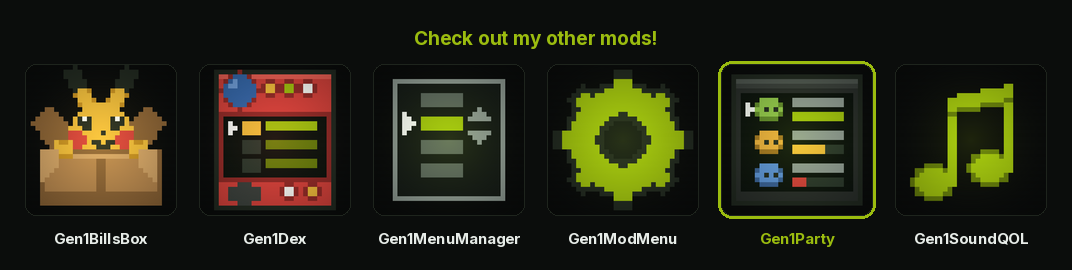
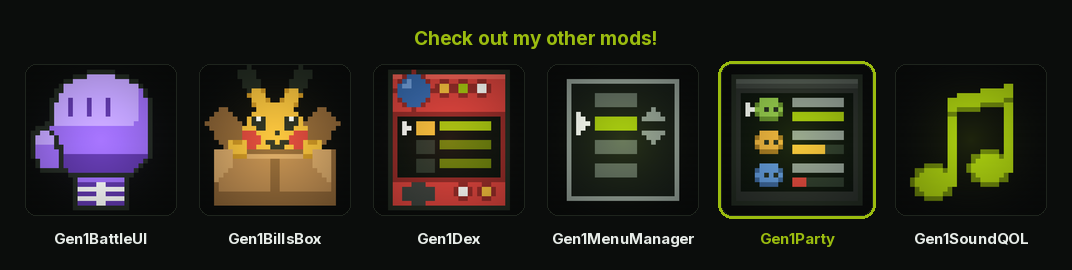
Index: Gen1BattleUI
The battle command and move menus as four buttons in a 2x2 grid instead
of a list, in the game's own text boxes and the game's own screen. Both
battle layouts.

Its card icon is a purple boxing glove, and it is the one icon here
written out as a pixel map rather than composed from discs and ellipses
like the rest: the shape is three round masses that have to meet along
shared outlines, and built from primitives it kept coming out with a
stray pixel where two curves grazed and a gap where the thumb met the
cuff -- every fix for one moving the other. A map has no such argument
with itself.

site/data/index.json is deliberately not rebuilt here: this checkout has
no token, so a local run resolves no releases and would replace every
entry's release and download block with a 403. The hourly job rebuilds
it with one, and a push touching mods/** triggers that job anyway.

Claude-Session: https://claude.ai/code/session_01TQTJ8XG51X7f5w4oWQuUJQ

diff --git a/tools/make_icons.py b/tools/make_icons.py
@@ -44,6 +44,9 @@ STEEL   = (0x5a, 0x66, 0x5c)
 AMBER   = (0xe8, 0xb7, 0x3a)
 PINK    = (0xf2, 0x8c, 0xbc)
 PINK_D  = (0xa8, 0x46, 0x78)
+PURPLE  = (0x9a, 0x6c, 0xf0)   # Gen1BattleUI's glove
+PURPLE_L = (0xc4, 0xa6, 0xff)
+PURPLE_D = (0x5c, 0x36, 0xa4)
 
 
 class Art:
@@ -972,6 +975,60 @@ def bundle_icon(text, case=CASE_GOLD, gap=2):
     return a, lit
 
 
+# The glove, one character per pixel.  Written out rather than built from
+# discs and ellipses like the rest of the icons here, because this shape is
+# three round masses that have to meet along shared outlines: composed from
+# primitives it kept coming out with a stray pixel where two curves grazed
+# each other and a gap where the thumb met the cuff, and every fix for one
+# moved the other.  A map has no such argument with itself.
+#
+#   o  the outline      L  lit              M  the body
+#   D  shade            W  the laces        .  through to the ground
+GLOVE = [
+    "................................",
+    ".............oooooo.............",
+    "..........oooLLLLLLooo..........",
+    "........ooLLLLLLLLLLLLoo........",
+    ".......oLLLLLLLLLLLLLLLLo.......",
+    "......ooLLLLLLLLLLLLLLLLMo......",
+    "......oLLLLLLLLLLLLLLLLLMo......",
+    ".....ooLLDLLLDLLLDLLLLLLMMo.....",
+    ".....oLLLDLLLDLLLDLLLLLLMMo.....",
+    ".....oLLLDLLLDLLLDLLLLLLMMo.....",
+    ".....oLLLDLLLDLLLDLLLLLLMMo.....",
+    ".....oLLLLLLLLLLLLLLLLLLMMo.....",
+    "....ooLLLLLLLLLLLLLLLLLMMMo.....",
+    "..oooMMMMMMMMMMMMMMMMMMMMMo.....",
+    ".ooLLoMMMMMMMMMMMMMMMMMMMMo.....",
+    ".oLLLLoMMMMMMMMMMMMMMMMMMMo.....",
+    ".oLLLLoMMMMMMMMMMMMMMMMMMMo.....",
+    ".oMMMMooMMMMMMMMMMMMMMMMMMo.....",
+    ".oMMMMMoMMMMMMMMMMMMMMMMMMo.....",
+    ".oMMMMMoDDDDDDDDDDDDDDDDDDo.....",
+    "..oMMMMoDDDDDDDDDDDDDDDDDo......",
+    "..oMMMMoDDDDDDDDDDDDDDDDo.......",
+    "...ooooooDDDDDDDDDDDDDDo........",
+    ".........oooooooooooooo.........",
+    "..........oMMMMMMMMMMo..........",
+    "..........oDDDDWWDDDDo..........",
+    "..........oWWWWWWWWWWo..........",
+    "..........oDDDDWWDDDDo..........",
+    "..........oWWWWWWWWWWo..........",
+    "..........oDDDDWWDDDDo..........",
+    "..........oooooooooooo..........",
+    "................................",
+]
+
+
+def battle_ui():
+    """A purple boxing glove: the battle menu, hitting differently."""
+    a = Art()
+    stamp(a, 0, 0, GLOVE, {
+        "o": INK, "L": PURPLE_L, "M": PURPLE, "D": PURPLE_D, "W": WHITE,
+    })
+    return a, PURPLE
+
+
 def wild_qol():
     """A gold Game Boy reading QOL."""
     return bundle_icon("QOL", CASE_GOLD)
@@ -984,6 +1041,7 @@ def wild_ui():
 
 ICONS = {
     "gen1autosave": autosave,
+    "Gen1BattleUI": battle_ui,
     "gen1_auto_continue": auto_continue,
     "gen1arena": arena,
     "Gen1MenuManager": menu_manager,

diff --git a/mods/Wild@Gen1BattleUI/description.md b/mods/Wild@Gen1BattleUI/description.md
@@ -1,0 +1,54 @@
+# Gen1BattleUI
+
+The battle menu is a list of four words in one box. This makes it four
+buttons, two by two, and does the same to the move menu.
+
+Nothing new was invented to draw them. A button here is the game's own text
+box — the same call, the same border glyphs, the same white interior — so a
+skin or a font mod that redraws the border redraws these buttons with it.
+
+```
+rows 12-14   FIGHT | PKMN        four 10x3 boxes, tiling the
+rows 15-17   ITEM  | RUN         twenty-by-six strip exactly
+```
+
+Three tile rows is the smallest box that holds a line of text, because the
+first and last go to the border. Two rows of them is six, which is exactly
+what the bottom of a Game Boy screen has.
+
+## The grid was already in the numbers
+
+The engine has always read the command menu as a 2×2 — which is why LEFT and
+RIGHT already crossed between FIGHT and PKMN. It was only ever *drawn* as a
+list. So none of the menu's behaviour is replaced: the index is still the
+engine's, and still moved by the engine's own input handling.
+
+The move menu is the one that actually changes, and the engine already had a
+hook for it — the widescreen layout has navigated its moves as a grid all
+along.
+
+## Dialogue takes the strip back on its own
+
+Only the three phases that are a *menu* are claimed. When the battle talks it
+is still the engine's text box, in the engine's place, with its own scroll and
+its own blinking arrow; the buttons are simply not drawn underneath it, and
+they are back on the frame the menu is.
+
+The same rule keeps PKMN and ITEM working: the strip is claimed only while the
+battle is the top of the state stack, because opening the party or the bag
+leaves the battle on the menu phase the whole time that screen is up.
+
+## What two columns inside 160 pixels costs
+
+A cell is seven glyphs where the vanilla list had fourteen, so long move names
+are cut — `QUICK ATTACK` reads `QUICK.` It is paid back rather than hidden: a
+panel above the grid carries the highlighted move's full name, its type and
+its PP, which the vanilla list never showed at once. **MOVE PANEL** turns it
+off.
+
+## Widescreen too
+
+`OPTION` → `BATTLE LAYOUT` → `WIDE` gets the same grid, built differently:
+five tile rows will not hold two three-row boxes, so it is one box ruled into
+four cells with its own border glyphs — border, text, rule, text, border. Its
+cells are twelve glyphs, so names arrive whole there and nothing is cut.

diff --git a/README.md b/README.md
@@ -33,6 +33,7 @@ not twice, and a mod in one can still find a mod in the other.
 | <img src="mods/Wild@gen1arena/thumbnail.png" width="54" alt=""> | **[Gen1Arena](https://github.com/wild1walker/Gen1Arena)** | 2D backdrops behind battles, picked by map, tileset and how the encounter started. |
 | <img src="mods/Wild@gen1_auto_continue/thumbnail.png" width="54" alt=""> | **[Gen1AutoContinue](https://github.com/wild1walker/Gen1AutoContinue)** | Boot to title, one press, playing. Skips the intro, the CONTINUE / NEW GAME menu and the save-info window. |
 | <img src="mods/Wild@gen1autosave/thumbnail.png" width="54" alt=""> | **[Gen1AutoSave](https://github.com/wild1walker/Gen1AutoSave)** | Autosaves on a play-time timer and after battles, catches and new areas, with optional rollback backups. |
+| <img src="mods/Wild@Gen1BattleUI/thumbnail.png" width="54" alt=""> | **[Gen1BattleUI](https://github.com/wild1walker/Gen1BattleUI)** | The battle command and move menus as four buttons in a 2x2 grid instead of a list, drawn in the game's own text boxes. Dialogue still takes the bottom of the screen back for as long as it is talking. Both battle layouts. |
 | <img src="mods/Wild@Gen1BillsBox/thumbnail.png" width="54" alt=""> | **[Gen1BillsBox](https://github.com/wild1walker/Gen1BillsBox)** | Replaces Bill's PC with the box it was standing in for: the party down the left, twenty visible slots on the right, and a cursor that carries a Pokémon. |
 | <img src="mods/Wild@Gen1Dex/thumbnail.png" width="54" alt=""> | **[Gen1Dex](https://github.com/wild1walker/Gen1Dex)** | The Pokédex with a POKéMON beside every entry: the party icon left of each row, a black silhouette until you have seen that species, base stats, evolutions and the full movelist behind it, and an AREA screen that opens on the ones you have never met and says how to get there. |
 | <img src="mods/Wild@Gen1Follower/thumbnail.png" width="54" alt=""> | **[Gen1Follower](https://github.com/wild1walker/Gen1Follower)** | All 251 Gen 1 and Gen 2 overworld followers, with Pokédex-proportional sizing and voxel support. Built from the PokéPC Followers work by Antigravity & gamecorner33. |
